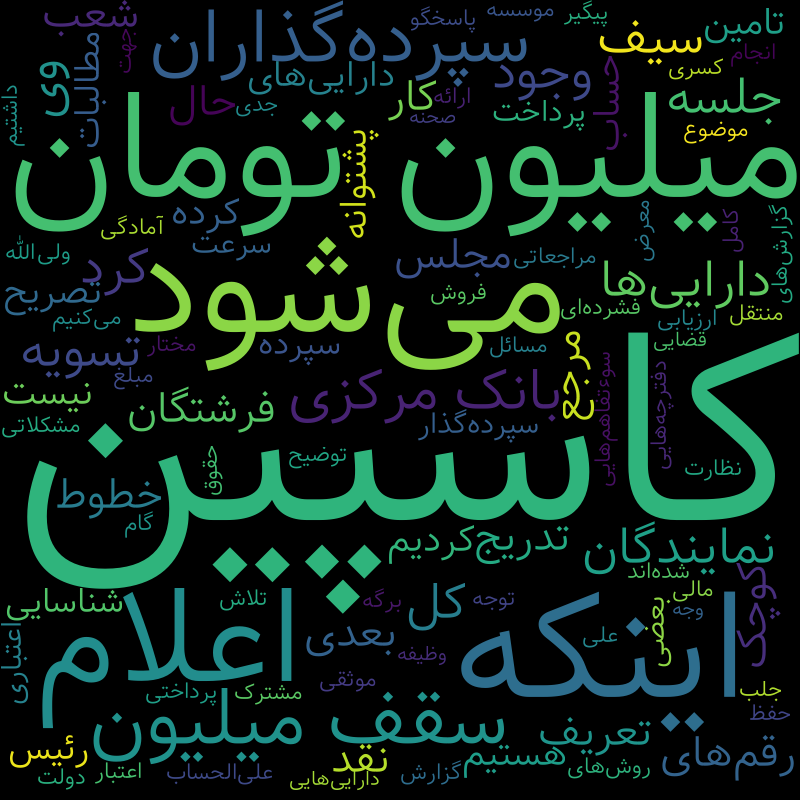
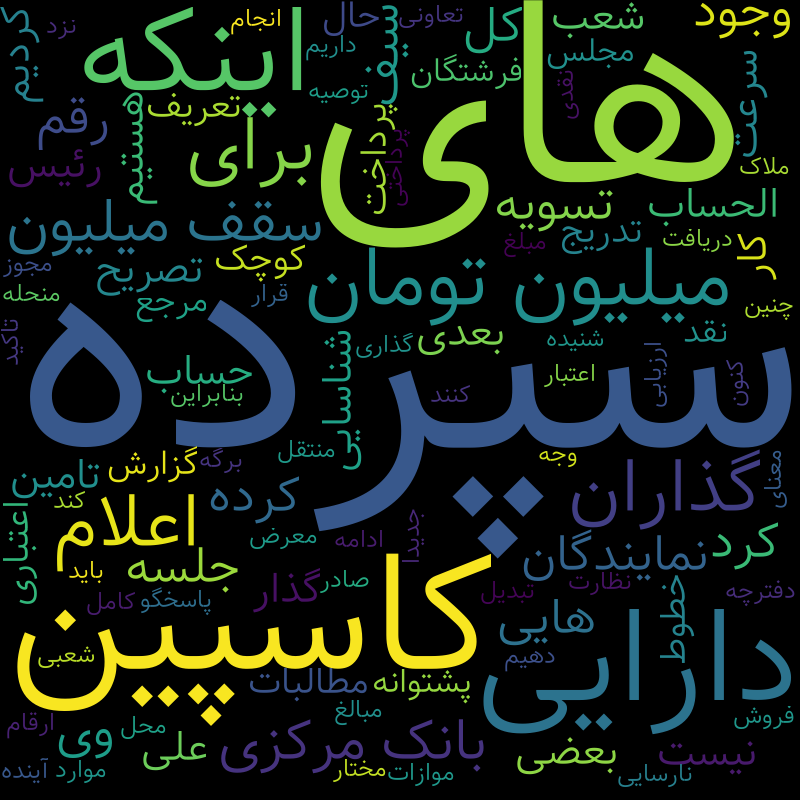
update reshaper text model + add example

diff --git a/example/with_mask.py b/example/with_mask.py
@@ -1,36 +1,42 @@
 #!/usr/bin/env python
 """
-Minimal Example
+With mask Example
 ===============
 
 Generating a square wordcloud from the US constitution using default arguments.
 """
-from os import path
 from persian_wordcloud.wordcloud import STOPWORDS, PersianWordCloud
+
+from os import path
+from PIL import Image
+import numpy as np
 
 d = path.dirname(__file__)
 
 text = open(path.join(d, 'persian.txt'), encoding='utf-8').read()
 
 # Add another stopword
-
+twitter_mask = np.array(Image.open(path.join(d, "twitter-logo.jpg")))
 STOPWORDS.add('می')
 stopwords = set(STOPWORDS)
 
 # Generate a word cloud image
 
 wordcloud = PersianWordCloud(
-    only_persian=True,
-    max_words=100,
+    only_persian=False,
+    max_words=200,
     stopwords=stopwords,
     margin=0,
     width=800,
     height=800,
     min_font_size=1,
     max_font_size=500,
-    background_color="black"
+    random_state=True,
+    background_color="white",
+    mask=twitter_mask
 ).generate(text)
 
 image = wordcloud.to_image()
 image.show()
-image.save('result.png')
+image.save('twitter_mask.png')
+

diff --git a/example/english_persian.py b/example/english_persian.py
@@ -7,22 +7,25 @@ Generating a square wordcloud from the US constitution using default arguments.
 """
 from os import path
 from persian_wordcloud.wordcloud import STOPWORDS, PersianWordCloud
+from wordcloud import STOPWORDS as EN_STOPWORDS
 
 d = path.dirname(__file__)
 
-text = open(path.join(d, 'persian.txt'), encoding='utf-8').read()
+text_fa = open(path.join(d, 'persian.txt'), encoding='utf-8').read()
+text_en = open(path.join(d, 'english.txt'), encoding='utf-8').read()
 
+text = text_en + text_fa
 # Add another stopword
 
-STOPWORDS.add('می')
-stopwords = set(STOPWORDS)
+# STOPWORDS.add('اینکه')
+STOPWORDS |= EN_STOPWORDS
 
 # Generate a word cloud image
 
 wordcloud = PersianWordCloud(
     only_persian=True,
     max_words=100,
-    stopwords=stopwords,
+    stopwords=STOPWORDS,
     margin=0,
     width=800,
     height=800,
@@ -33,4 +36,4 @@ wordcloud = PersianWordCloud(
 
 image = wordcloud.to_image()
 image.show()
-image.save('result.png')
+image.save('en-fa-result.png')

diff --git a/setup.py b/setup.py
@@ -8,7 +8,7 @@ from setuptools import setup, find_packages
 
 setup(
     name='persian_wordcloud',
-    version='1.0.3',
+    version='1.2.0',
     description='Persian Word Cloud Generator',
     long_description='Persian Word Cloud Generator',
     url='https://github.com/Mehotkhan/persian-word-cloud',

diff --git a/README.md b/README.md
@@ -7,6 +7,9 @@
 * tested on python 3
 # Sample Output:
 ![Sample Result](example/result.png?raw=true)
-# Todo
-* add function to detect persian and english character 
-* add text cleaner for remove arabic characters in text 
+
+# English + persian  Output:
+![Sample Result](example/en-fa-result.png?raw=true)
+
+# twitter mask  Output:
+![Sample Result](example/twitter_mask.png?raw=true)
